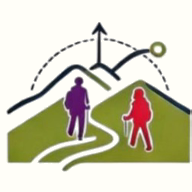
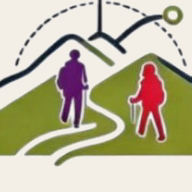
收紧首页图形标裁切，让徒步人和山丘填满圆角标。

diff --git a/web/src/styles/app.css b/web/src/styles/app.css
@@ -64,21 +64,20 @@ button, input, textarea, select { font-family: inherit; }
   color: inherit;
 }
 .brand-mark-frame {
-  width: 34px;
-  height: 34px;
-  flex: 0 0 34px;
-  border-radius: 9px;
+  width: 36px;
+  height: 36px;
+  flex: 0 0 36px;
+  border-radius: 10px;
   overflow: hidden;
-  background: #fffef8;
-  box-shadow: 0 0 0 1px rgba(255, 255, 255, 0.16);
+  background: var(--cream);
+  box-shadow: 0 0 0 1px rgba(255, 255, 255, 0.14);
 }
 .brand-mark-frame img {
   display: block;
-  width: 118%;
-  height: 118%;
-  margin: -9% 0 0 -9%;
+  width: 100%;
+  height: 100%;
   object-fit: cover;
-  object-position: 46% 58%;
+  object-position: 50% 52%;
 }
 .brand-type {
   display: flex;
